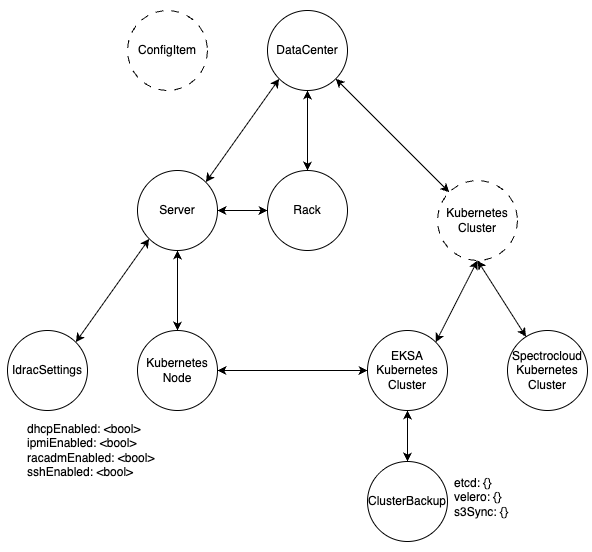
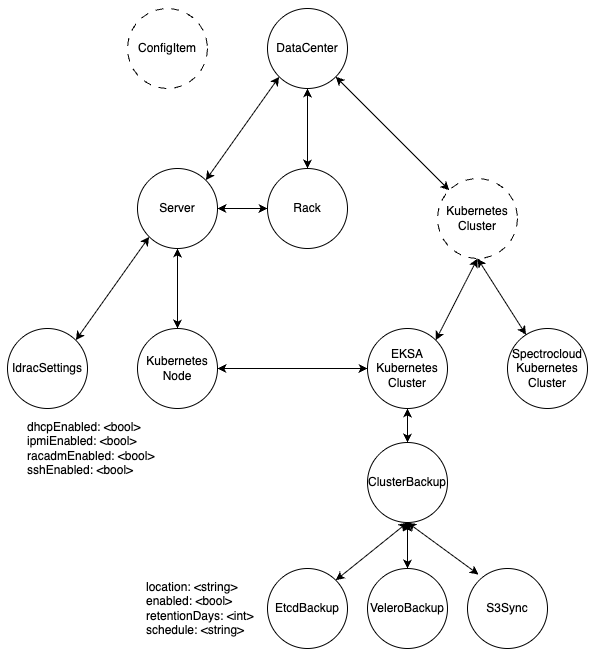
Set updatedAt and updatedBy server side

diff --git a/web/shared/static/configitem-editor.js b/web/shared/static/configitem-editor.js
@@ -174,9 +174,12 @@ export function initConfigItemEditor({
       for (const f of t.fields) if (f in sub) out[f] = valueForMutation(t, f, sub[f])
       return out
     }
-    // Standard ConfigItem interface fields orbital's ent schema requires on
-    // every insert. `version: 1` is what a fresh @id gets; the GraphQL proxy
-    // auto-bumps on subsequent updates.
+    // Metadata for entities created as a NESTED subtree inside an update{Root}
+    // `set` (first-time wrapper + children). The GraphQL proxy stamps
+    // createdBy/At + updatedBy/At + version on top-level update `set` maps and
+    // top-level add inputs, but does NOT recurse into nested objects within a
+    // set — so these nested nodes must carry their own. Do NOT remove: top-level
+    // edits/adds are server-stamped (see graphql.go), nested creates are not.
     const configItemDefaults = () => ({
       version: 1,
       createdBy: currentUser, createdAt: now,
@@ -217,14 +220,14 @@ export function initConfigItemEditor({
     let rootSet = null
     const rootChange = changes.find(ch => ch.target.path.length === 0)
     if (rootChange) {
-      rootSet = { updatedBy: currentUser, updatedAt: now, ...scalarPayload(rootChange.target, rootChange.currentSub || {}) }
+      rootSet = { ...scalarPayload(rootChange.target, rootChange.currentSub || {}) }
     }
     // Children folded into rootSet — tracked so the per-target loop skips
     // them (otherwise we'd double-emit them as separate add mutations).
     const foldedOrbIds = new Set()
     for (const w of wrappersNeeded.values()) {
       if (rootSet === null) {
-        rootSet = { updatedBy: currentUser, updatedAt: now }
+        rootSet = {}
       }
       // Wrapper metadata. `@hasInverse` on wrapper.cluster fills back to root
       // automatically when root sets `[w.parentField] = wrapper`, so we don't
@@ -271,7 +274,7 @@ export function initConfigItemEditor({
         // EDIT — canonical update{Kind} triggers the diff renderer.
         calls.push(buildUpdateCall({
           kind: t.kind, orbId: t.orbId, payloadField: t.payloadField,
-          set: { updatedBy: currentUser, updatedAt: now, ...scalarPayload(t, sub) },
+          set: { ...scalarPayload(t, sub) },
         }))
       } else {
         // CREATE under an already-existing wrapper (sibling exists). Safe

diff --git a/internal/handler/graphql.go b/internal/handler/graphql.go
@@ -12,6 +12,7 @@ import (
 	"regexp"
 	"sort"
 	"strings"
+	"time"
 
 	"github.com/armada/orbital/ent"
 	"github.com/armada/orbital/ent/user"
@@ -179,16 +180,28 @@ func (h *GraphQL) Handle(c echo.Context) error {
 	//     entry that lacks one. The variable name doesn't matter (callers use
 	//     `input`, `idracInput`, etc.) — every array-of-maps payload is treated
 	//     as an add/upsert input. Caller-set version is preserved.
+	// Server-authoritative audit metadata. `version` is the OCC counter;
+	// `updatedBy`/`updatedAt` (and `createdBy`/`createdAt` on create) are stamped
+	// from the authenticated identity + server clock so they are consistent and
+	// unspoofable for EVERY caller — orbital's own UI, orbctl, and direct API
+	// clients alike. Clients must NOT supply these. See docs/reference/AUDIT.md.
+	now := time.Now().UTC().Format(time.RFC3339)
 	autoIncremented := false
+	// UPDATE: `set` is a map. Gated on before!=nil, which means we resolved a
+	// single versioned ConfigItem — the only shape that owns these fields.
 	if before != nil {
 		if setMap, ok := req.Variables["set"].(map[string]any); ok {
 			if _, has := setMap["version"]; !has {
 				setMap["version"] = int(toFloat64(before["version"])) + 1
-				req.Variables["set"] = setMap
-				autoIncremented = true
 			}
+			setMap["updatedBy"] = actor
+			setMap["updatedAt"] = now
+			req.Variables["set"] = setMap
+			autoIncremented = true
 		}
 	}
+	// ADD: any array-of-maps input is an add/upsert of ConfigItem(s). Stamp both
+	// created and updated (updatedAt == createdAt on insert).
 	for _, v := range req.Variables {
 		arr, ok := v.([]any)
 		if !ok {
@@ -201,8 +214,12 @@ func (h *GraphQL) Handle(c echo.Context) error {
 			}
 			if _, has := m["version"]; !has {
 				m["version"] = 1
-				autoIncremented = true
 			}
+			m["createdBy"] = actor
+			m["createdAt"] = now
+			m["updatedBy"] = actor
+			m["updatedAt"] = now
+			autoIncremented = true
 		}
 	}
 

diff --git a/ROADMAP.md b/ROADMAP.md
@@ -72,6 +72,8 @@ Each spike is a question to answer. Results define the MVP.
 | 27 | Adopt Atlas for Postgres schema migration | How does orbital handle schema evolution against legacy data — adding constraints to populated tables — without crashlooping deploys? | — | Not started | **Trigger:** v0.0.23 AKS deploy crashlooped adding an FK on `registry_artifacts.export_job_id`; long-lived DB had orphans that ent's schema-diff can't see. Fresh test DBs miss the class entirely. **Adopt Atlas** (ariga.io, ent-native): versioned SQL under `ent/migrate/migrations/`, data migrations interleaved, `atlas migrate lint` in CI. **Scope:** replace `db.Schema.Create(...)` in `cmd/orbital`; move migrations off startup (init container / `--migrate` flag); CI applies pending migrations against a redacted snapshot of AKS Postgres; drop `WithDropColumn(true)`; same for orb SQLite. **Deliverable:** ADR-014. Rejected: Liquibase/Flyway (Java tax), custom tooling (mirrors ADR-007 for DGraph). |
 | 28 | In-pod bundler → orbital service-auth model | Should the co-located cb-bundler authenticate to orbital's `/graphql` via full AAD client-credentials (current), or via a loopback/localhost trust that actually realizes the "same pod simplifies auth" intent? And reconcile the contradictory docs. | — | Post-MVP | **Trigger:** external-jwt demo work (2026-07-23) broke the bundler's publish callback — external-jwt mode replaced the AAD verifier, so the bundler's AAD client-credentials token got signature-rejected. **Tactical fix shipped for demo:** dual-issuer fallback — external-jwt routes Keycloak-issued bearers to the Keycloak verifier and all others to the AAD `BearerVerifier`, restoring the documented AAD path (ADR 010). **The real decision:** our docs describe two conflicting models for the same in-pod call — **Model A (AAD client-credentials)** in `aad-bundler-role-assignment.md` + ADR 010 + `bearer.go` (what's actually built), vs **Model B (localhost bypass)** in `configbundle-integration.md:457/463/464` ("no bearer token needed — localhost bypasses auth"). Model B is only literally true in local dev (`ORBITAL_DEV=true` bypass); prod (`Dev=false`) runs Model A. **Decide:** keep AAD (IdP-consistent, survives if the sidecar assumption changes; heavier) OR adopt real loopback-trust (deletes AAD from the hot path + the App Role runbook; commits to the sidecar-invariant of `configbundle-integration.md:457`; supersedes ADR 010). **Regardless of choice: fix the doc contradiction** — 457/463/464 vs the AAD runbook cannot both stand (they already misled a review). **Deliverable:** decision + doc reconciliation; if Model B, an ADR superseding 010. Triggered by 2026-07-23 external-jwt session. |
 | 29 | Publish-action metrics (success / latency / failure-stage) | What operational metrics should orbital emit around publish/export, and how do we actually collect them? | — | Not started | **Trigger:** 2026-07-27 `/metrics` review. **Current state:** orbital exposes `/metrics` (Prometheus `client_golang`, `internal/metrics/metrics.go`) with 3 HTTP-level metrics (`http_requests_total`, `http_request_duration_seconds`, `graphql_operation_errors_total`) via middleware — but (a) orbital's pod carries **no scrape annotation / ServiceMonitor** (only DGraph does), so nothing collects them, and (b) publish is an **async job**, so the HTTP metrics capture only the fast `202` trigger, not the outcome / real duration / failure-stage. Publish truth currently lives only in the `ExportJob` / `RegistryArtifact` DB rows (status, `completed_at`, digest, bytes, layers), not in metrics. **Scope:** (1) actually scrape orbital — ServiceMonitor or pod annotation (**overlaps Spike 21's ServiceMonitor item** — reconcile, don't duplicate); (2) publish domain metrics at job finalization in `publisher.go` / `export.go`: `orbital_publish_total{datacenter,result}`, `orbital_publish_duration_seconds{datacenter}`, `orbital_publish_failures_total{stage}` (bundler / sign / push) — inject via the same seam Spike 25 uses for `auditEmit`. **Decide:** metric namespace convention (`orbital_*`; existing metrics are un-prefixed) and — **reconcile with Spike 21** — Prometheus `client_golang` at `/metrics` vs OTel `MeterProvider`→Mimir (today those would be two parallel metrics stacks). **Complementary to, not a substitute for,** the `publishArtifact` audit event (Spike 25): audit = who/when (compliance), metrics = rate/latency/failure (ops). See Spike 21 for the broader OTel pipeline. |
+| 31 | Reject inline single-entity mutations (server-managed metadata) | Should the proxy auto-stamp inline mutations, or require the variable form and reject inline? | — | Not started (design settled) | **Decision (Opus design 2026-07-28): Option D — reject inline single-entity `update{Kind}` mutations with a descriptive 400; do NOT rewrite the query string.** **Problem:** the proxy stamps `version` + `updatedBy`/`updatedAt` (authenticated identity + server clock) only on the **variable-based** path — the before-fetch gate reads `req.Variables["orbId"]`/`["id"]`, so an inline `filter:{orbId:{eq:"…"}}` is invisible to it and stamping is **silently skipped** (version not bumped, audit fields null). Verified empirically 2026-07-28: same mutation with `$orbId`/`$set` vars → version 2 + stamped; inline → version 1 + null. **Why D over rewriting (A `gqlparser` AST / B extract-inline→vars / C regex string-inject):** every mutation flows through `Handle` (UI, orbctl, cb-bundler) — A/B/C add query-*string* manipulation to that load-bearing path where a bug could corrupt *working* mutations; **D only adds a rejection branch on a shape that already silently misbehaves, so it cannot regress any working path.** Our own clients already use the variable form (UI `configitem-editor.js:84`, orbctl `patch_dc.go`), so D breaks ~zero real traffic — only hand-written GraphQL and the (now-fixed) cheatsheet. D converts a silent-correctness bug into a loud, self-documenting error, matching the codebase's document-and-defer style (`isMutation` already declined `gqlparser`). **Scope — documented pass-throughs, NOT rejected:** bulk `in:[…]`, non-orbId filters, compound multi-mutation docs, and inline `add(input:[…])` literals (UI/orbctl always use `$input`). **Implement:** inline-single-entity detector after `resourceType` resolves in `graphql.go` (reuse `orbIdFilterRe` + `stripCommentsAndStrings` to avoid string/comment false-triggers); 400 JSON body pointing at `docs/api-cheatsheet.md`; tests for must-stamp / must-reject / must-pass-through / false-trigger cases. **Upgrade path if external inline clients ever appear: Option B** (lift the inline object into a synthetic `$__set` variable, then reuse the safe map-injection). **Already shipped separately (NOT this spike):** server-side stamping on the variable path + removal of client-side stamping + cheatsheet variable form. Triggered by the 2026-07-28 galleon-backup-svc `updatedAt` report. |
+| 30 | Pre-export change preview ("dry run") | Let clients see what would change in the next bundle BEFORE clicking export/publish — preview a data center's pending changes. | — | Not started | **Idea (2026-07-28):** clients want to preview a DC's pending changes before Export. **Prospective twin of Spike 25** (retrospective — diff between two *published* artifacts): same audit-cursor-window mechanism, anchored "last publish → now" instead of "publish N-1 → N" — **unify, don't build parallel machinery.** **Three levels of dry-run, increasing cost:** (1) **Pending changeset (audit-based)** — intent mutations since last publish (entity / actor / when / before→after); cheap, reuses the audit pipeline; recommended MVP. (2) **Config payload diff** — field-level diff of the export payload vs the last published snapshot; precise, needs export-to-scratch + subgraph diff. (3) **Full bundle preview** — dry-run the whole export→bundle pipeline incl. bundler-added layers without pushing; heaviest, cross-repo (bundler). **Lean:** Level 1, **orbital-owned** (orbital owns intent + audit + export; "view my changes" is about *intent*, not deterministic bundler-layer transforms) — keep the bundler out unless previewing bundler-ADDED layers is a real need. **Open design Qs (not settled — session parked 2026-07-28):** granularity (changeset vs payload-diff vs full-bundle); surface (API endpoint for AEP / UI panel on DC-or-export page / both); baseline anchor (last published artifact for the DC; behavior when never published); orbital-only vs bundler dry-run. Note: existing `download:true` export already produces the `json.gz` without publishing — a preview could build on that. Warrants an Opus design session before code. |
 | — | Schema migration | Do we need automation or is a runbook sufficient? | — | ❌ Superseded by Spike 27 | v0.0.23 failure invalidated the "runbook sufficient" decision. |
 
 ---

diff --git a/docs/reference/AUDIT.md b/docs/reference/AUDIT.md
@@ -117,3 +117,5 @@ The audit tab query (`GET /api/v1/events?orbId=...`) filters to `event_category 
 - **Audit diff is generic — excludelist, not allowlist.** `buildDiffHTML` in `event.go` diffs every field in `before ∩ after` (minus metadata: `id`, `version`, `orbId`, `namespace`, `createdAt/By`, `updatedAt/By`, `ifVersion`). Adding a new ConfigItem type produces diffs out of the box. Patch-style mutations (`update{Type}(input: {filter, set: $set})`) have after-values under `variables["set"]`; flat-shape edits keep them top-level. Both work. **Do NOT reintroduce per-type renderer blocks** — the previous nested-iDRAC block was removed 2026-06-20 once Server edit started dispatching parallel `updateServer`+`updateIdracSettings` mutations.
 - **Internal dispatchers supply `before` themselves.** `GraphQL.DispatchMutation(ctx, actor, query, variables, before)` does NOT auto-fetch the before-state — that's a user-facing concern in `Handle`. Callers that want a diff in the audit row pass `before` directly. For divergence-accept, `dispatchAcceptMutation` builds `before` from `entry.IntendedValue` (already captured at ingest time — no extra DGraph round-trip). For other internal mutations, the caller picks the cheapest source of truth.
 - **Resolved divergence freeze-vs-supersede behavior on re-ingest** is documented in [DIVERGENCE.md "Re-ingesting an already-resolved entry"](./DIVERGENCE.md#re-ingesting-an-already-resolved-entry). Audit history of the prior decision is preserved in the `events` table even when the resolution row is superseded; the `divergence_resolutions` table holds the CURRENT decision only.
+- **`version`/`updatedAt`/`updatedBy` are server-stamped in the `/graphql` proxy — clients must NOT supply them.** `graphql.go Handle` injects `version` (auto-increment) + `updatedBy`=`actorFromContext(c)` + `updatedAt`=server clock into the mutation `set` (UPDATE), and `createdBy`/`createdAt`/`updatedBy`/`updatedAt` into the input (ADD) — from the authenticated identity, so they're consistent and unspoofable across the UI, orbctl, and direct API clients alike. Client-side stamping was removed from `configitem-editor.js` (2026-07-28); it is kept ONLY for the nested first-time-create subtree, which the proxy can't recurse into (there's a comment there). The audit log records the same actor+timestamp independently and remains the authoritative provenance.
+- **Server metadata stamping runs ONLY on the variable-based mutation path — inline single-entity mutations silently skip it (Spike 31).** The before-fetch gate reads `req.Variables["orbId"]`/`["id"]`, so the selector AND `set` must be passed as GraphQL variables — `update{Kind}(input: { filter: { orbId: { eq: $orbId } }, set: $set })` with `variables { orbId, set }`. An **inline** `filter: { orbId: { eq: "…" } }` written in the query string is invisible to the gate, so `version` isn't bumped and `updatedAt`/`updatedBy` stay null (verified empirically 2026-07-28). **Spike 31** rejects inline single-entity `update{Kind}` with a descriptive 400 (Option D — reject, do NOT rewrite the load-bearing query string; Option B, extract-inline→variables, is the documented upgrade path if external inline clients ever appear). Bulk `in:[…]`, non-orbId filters, compound multi-mutation documents, and inline `add(input:[…])` literals pass through unstamped by design. All orbital-authored clients (UI `configitem-editor.js`, orbctl `patch_dc.go`) already use the variable form.

diff --git a/docs/api-cheatsheet.md b/docs/api-cheatsheet.md
@@ -20,6 +20,10 @@ curl -s -X POST $ORBITAL_URL/graphql -H "Authorization: Bearer $TOKEN" -H "Conte
 -d '{"query":"query { queryDataCenter { orbId name } }"}' | jq .
 ```
 
+**Reads** send only `query`. **Mutations** send two fields — `query` **and** `variables`: the `query` holds the operation with `$orbId`/`$set` placeholders; `variables` holds the values. Always put `orbId` (and the `set` payload) in **`variables`**, never inline in the query — an inline `orbId` skips orbital's `version` bump and `updatedAt`/`updatedBy` stamping.
+
+The `-d` body is JSON and may span multiple lines for readability — only the `query` string stays on one line. A mutation's returned entity confirms the write: the server stamps `updatedAt`/`updatedBy` (**no milliseconds**) and bumps `version`.
+
 ---
 
 ## Example schema 
@@ -59,13 +63,15 @@ query {
 ```
 
 ### Update iDRAC settings — by the `idracSettings.orbId` from the fetch above
+query
 ```graphql
-mutation {
-  updateIdracSettings(input: {
-    filter: { orbId: { eq: "houston:BB52FZ3-idrac" } }
-    set:    { sshEnabled: false }
-  }) { numUids }
+mutation UpdateIdracSettings($orbId: String!, $set: IdracSettingsPatch!) {
+  updateIdracSettings(input: { filter: { orbId: { eq: $orbId } }, set: $set }) { numUids }
 }
+```
+variables
+```json
+{ "orbId": "houston:BB52FZ3-idrac", "set": { "sshEnabled": false } }
 ```
 
 ## Clusters
@@ -95,15 +101,45 @@ query {
 ```
 
 ### Update a backup config — by the `etcd`/`velero` orbId from the fetch above
+query
 ```graphql
-mutation {
-  updateEtcdBackup(input: {
-    filter: { orbId: { eq: "colo:dev-main-etcd-backup" } }
-    set:    { schedule: "0 */6 * * *", retentionDays: 7 }
-  }) { numUids }
+mutation UpdateEtcdBackup($orbId: String!, $set: EtcdBackupPatch!) {
+  updateEtcdBackup(input: { filter: { orbId: { eq: $orbId } }, set: $set }) { numUids }
 }
 ```
-Same shape for `updateVeleroBackup` (orbId `…-velero-backup`).
+variables
+```json
+{ "orbId": "colo:dev-main-etcd-backup", "set": { "schedule": "0 */6 * * *", "retentionDays": 7 } }
+```
+
+Example using curl
+```bash
+curl -s -X POST $ORBITAL_URL/graphql -H "Authorization: Bearer $TOKEN" -H "Content-Type: application/json" \
+-d '{
+  "query": "mutation UpdateVeleroBackup($orbId: String!, $set: VeleroBackupPatch!) { updateVeleroBackup(input: { filter: { orbId: { eq: $orbId } }, set: $set }) { numUids veleroBackup { orbId retentionDays version updatedAt updatedBy } } }",
+  "variables": { "orbId": "colo:dev-main-velero-backup", "set": { "retentionDays": 14 } }
+}' | jq .
+```
+Response
+```json
+{
+  "data": {
+    "updateVeleroBackup": {
+      "numUids": 1,
+      "veleroBackup": [
+        {
+          "orbId": "colo:dev-main-velero-backup",
+          "retentionDays": 14,
+          "version": 30,
+          "updatedAt": "2026-07-28T19:13:50Z",
+          "updatedBy": "daniel.nguyen@armada.ai"
+        }
+      ]
+    }
+  }
+}
+```
+`updatedAt` has no milliseconds and `updatedBy` is the authenticated caller — both server-stamped (the client never sent them).
 
 ## Export + publish a data center (REST)
 ```bash
